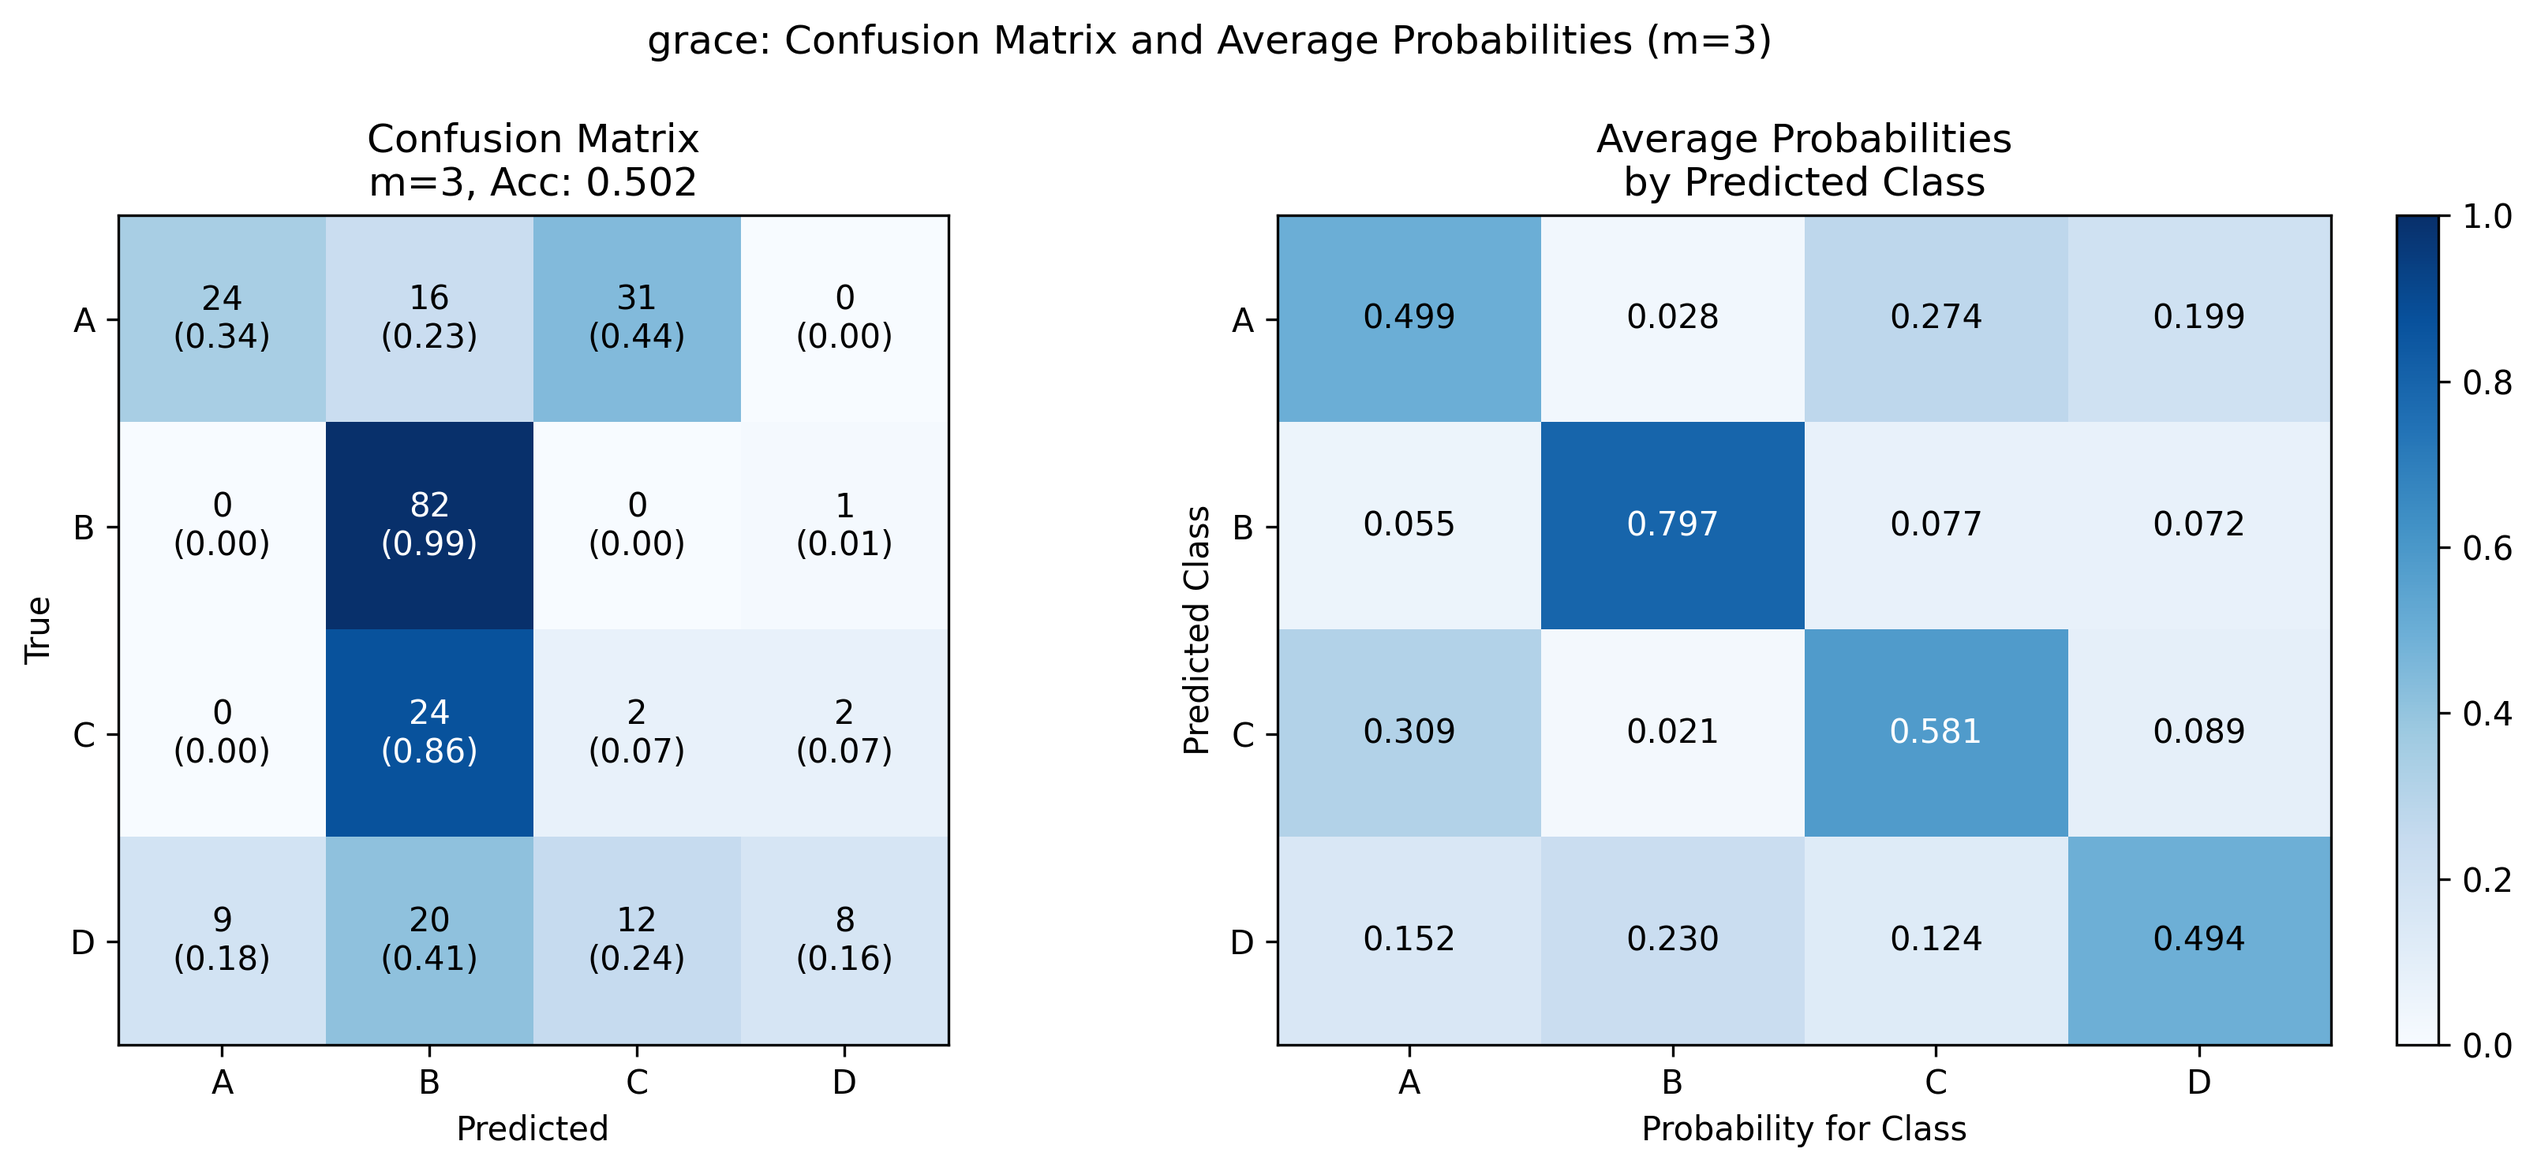
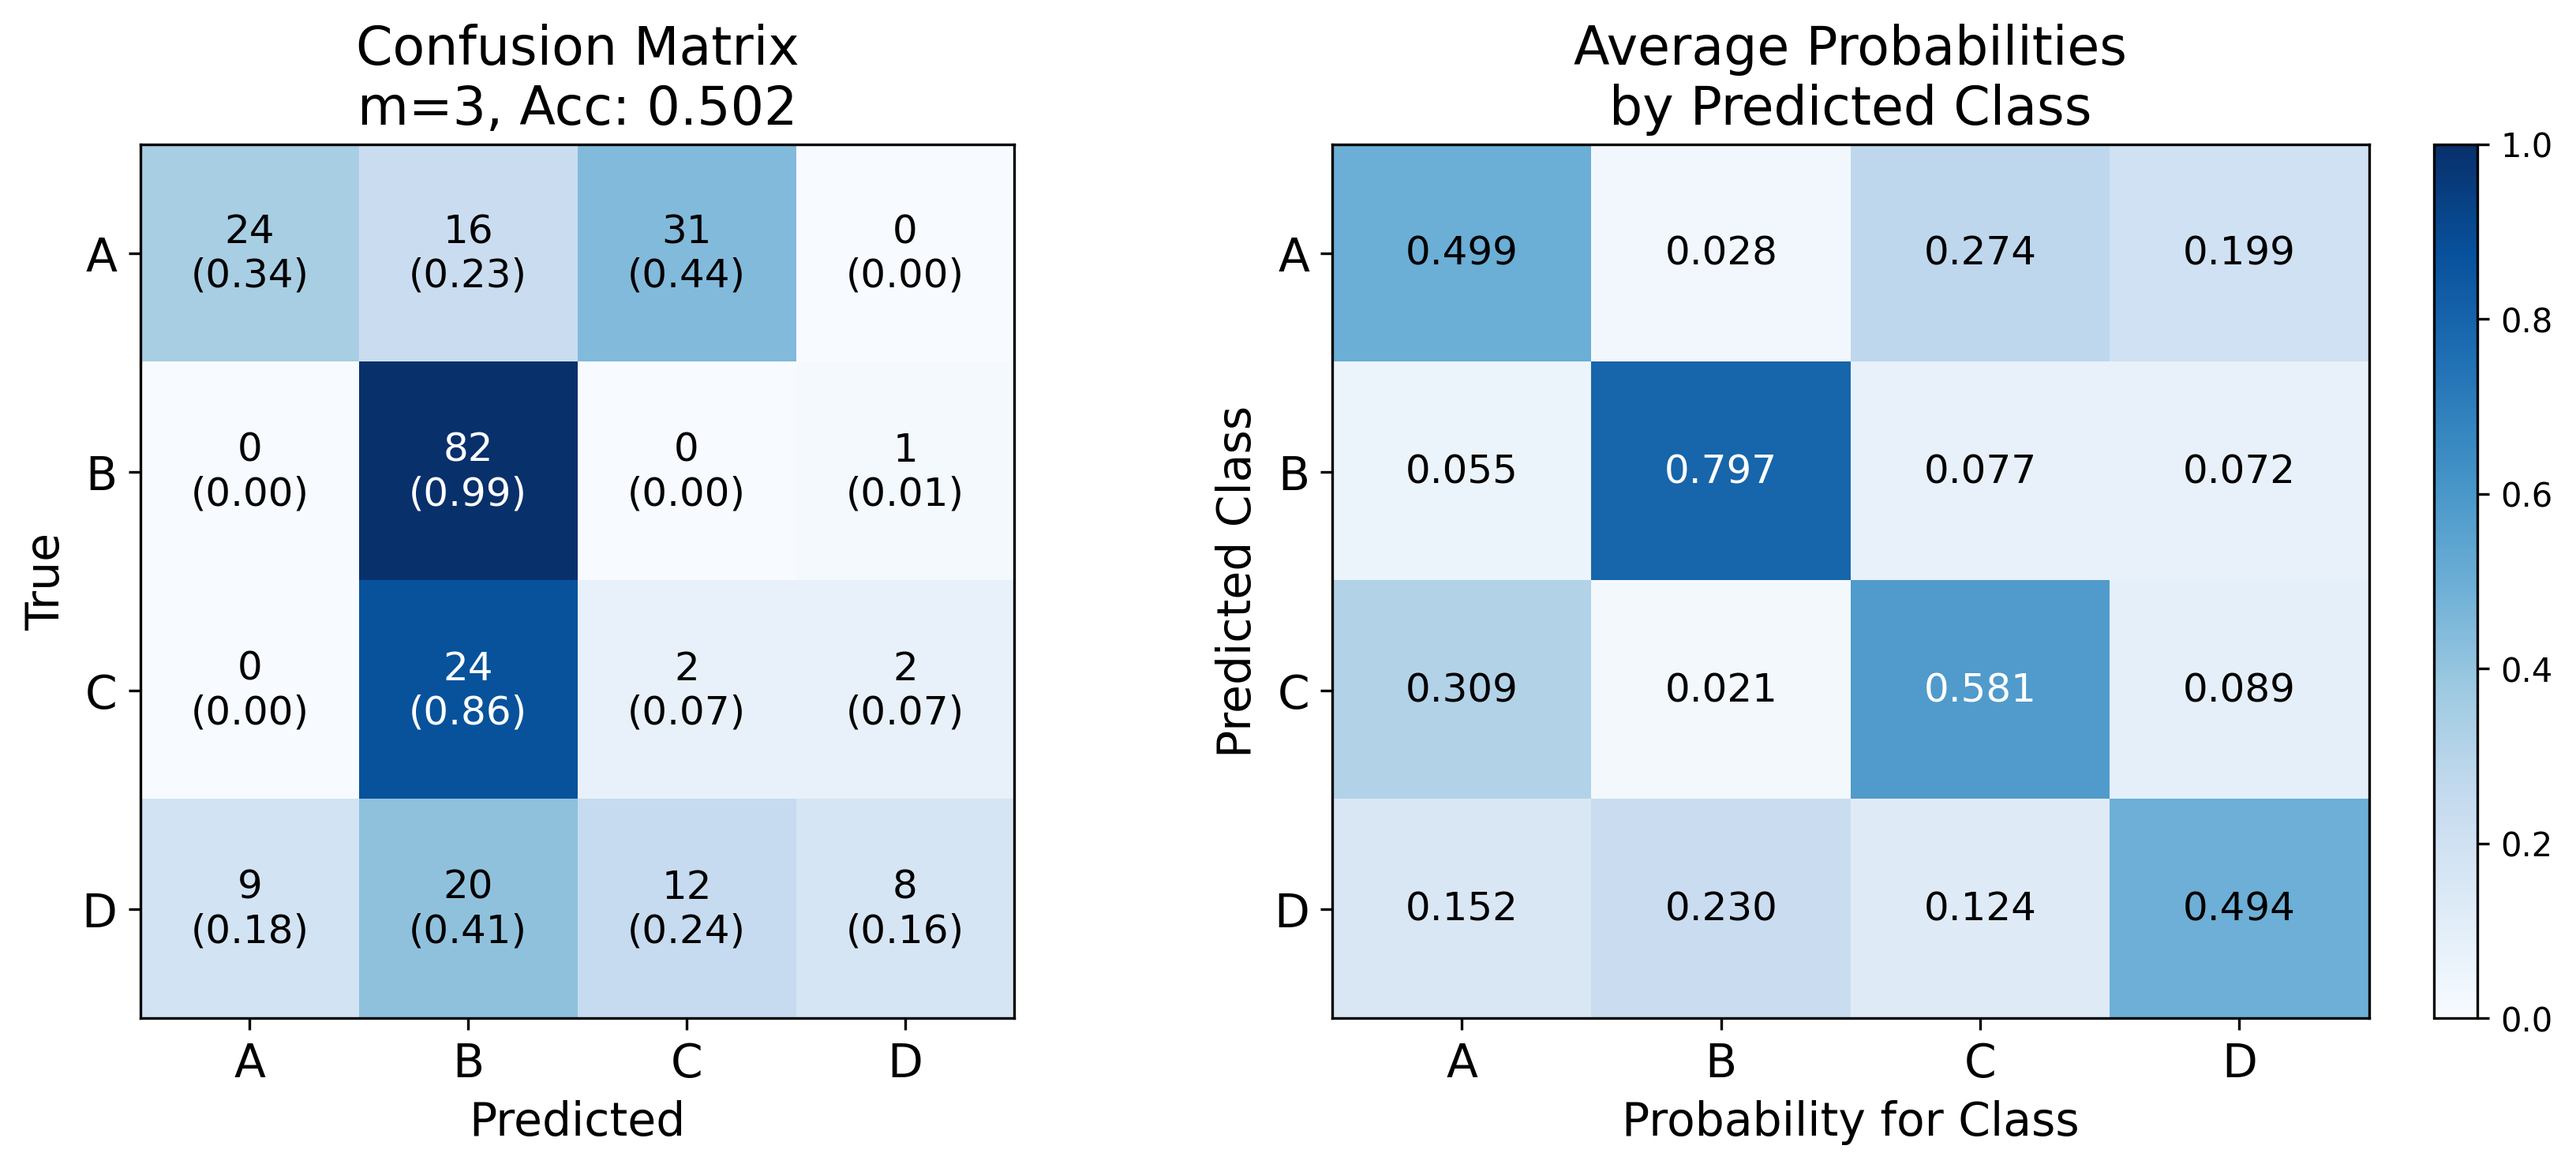
improve confusion matrix results:

diff --git a/confusion_matrix_analysis.py b/confusion_matrix_analysis.py
@@ -22,8 +22,8 @@ import matplotlib.pyplot as plt
 import random
 from sksurv.nonparametric import SurvivalFunctionEstimator 
 import seaborn as sns
-from sklearn.metrics import confusion_matrix
-os.makedirs("confusion_matrices", exist_ok=True)
+from sklearn.metrics import confusion_matrix, precision_recall_fscore_support
+os.makedirs("figures/figures/confusion_matrix_analysis", exist_ok=True)
 warnings.filterwarnings("ignore")
 
 SEED = 42
@@ -36,7 +36,7 @@ if torch.cuda.is_available():
     torch.backends.cudnn.benchmark = False
 
 # Directory containing the datasets
-data_dir = os.path.join("test")
+data_dir = os.path.join("test1")
 
 # List all CSV files in the directory
 dataset_files = [f for f in os.listdir(data_dir) if f.endswith(".csv")]
@@ -331,27 +331,31 @@ def create_confusion_matrix(tabpfn_model, x_test_imputed, y_test, cuts, dataset_
     cm = confusion_matrix(y_true, y_pred, labels=[0,1,2,3])
     cm_norm = cm.astype('float') / cm.sum(axis=1)[:, np.newaxis]
     
+    # Calculate precision and recall for each class
+    precision, recall, _, _ = precision_recall_fscore_support(y_true, y_pred, labels=[0,1,2,3], average=None, zero_division=0)
+    accuracy = np.mean(y_true == y_pred)
+    
     # Create figure with two equal-sized subplots
     fig, (ax_left, ax_right) = plt.subplots(1, 2, figsize=(12, 5))
     
     # Left subplot: Confusion matrix with both counts and percentages
     im1 = ax_left.imshow(cm_norm, interpolation='nearest', cmap='Blues')
-    ax_left.set_title(f'Confusion Matrix\nm={n_bins}, Acc: {np.mean(y_true == y_pred):.3f}')
+    ax_left.set_title(f'Confusion Matrix\nm={n_bins}, Acc: {accuracy:.3f}', fontsize=16)
     
     class_names = ["A", "B", "C", "D"]
     # Add text annotations to confusion matrix
     for i in range(cm.shape[0]):
         for j in range(cm.shape[1]):
             text = f"{cm[i,j]}\n({cm_norm[i,j]:.2f})"
-            ax_left.text(j, i, text, ha="center", va="center",
+            ax_left.text(j, i, text, ha="center", va="center", fontsize=12,
                         color="white" if cm_norm[i,j] > 0.5 else "black")
     
     ax_left.set_xticks(range(4))
     ax_left.set_yticks(range(4))
-    ax_left.set_xticklabels(class_names)
-    ax_left.set_yticklabels(class_names)
-    ax_left.set_xlabel('Predicted')
-    ax_left.set_ylabel('True')
+    ax_left.set_xticklabels(class_names, fontsize=14)
+    ax_left.set_yticklabels(class_names, fontsize=14)
+    ax_left.set_xlabel('Predicted', fontsize=14)
+    ax_left.set_ylabel('True', fontsize=14)
     
     # Right subplot: Average probabilities by predicted class
     avg_probs_by_pred = []
@@ -366,36 +370,36 @@ def create_confusion_matrix(tabpfn_model, x_test_imputed, y_test, cuts, dataset_
     avg_probs_by_pred = np.array(avg_probs_by_pred)
     
     im2 = ax_right.imshow(avg_probs_by_pred, cmap='Blues', aspect='auto', vmin=0, vmax=1)
-    ax_right.set_title('Average Probabilities\nby Predicted Class')
+    ax_right.set_title('Average Probabilities\nby Predicted Class', fontsize=16)
     
     # Add text annotations to probability matrix
     for i in range(4):
         for j in range(4):
             text = f"{avg_probs_by_pred[i,j]:.3f}"
-            ax_right.text(j, i, text, ha="center", va="center",
+            ax_right.text(j, i, text, ha="center", va="center", fontsize=12,
                          color="white" if avg_probs_by_pred[i,j] > 0.5 else "black")
     
     ax_right.set_xticks(range(4))
     ax_right.set_yticks(range(4))
-    ax_right.set_xticklabels(class_names)
-    ax_right.set_yticklabels(class_names)
-    ax_right.set_xlabel('Probability for Class')
-    ax_right.set_ylabel('Predicted Class')
+    ax_right.set_xticklabels(class_names, fontsize=14)
+    ax_right.set_yticklabels(class_names, fontsize=14)
+    ax_right.set_xlabel('Probability for Class', fontsize=14)
+    ax_right.set_ylabel('Predicted Class', fontsize=14)
     
     plt.colorbar(im2, ax=ax_right)
-    
-    plt.suptitle(f'{dataset_name}: Confusion Matrix and Average Probabilities (m={n_bins})')
     plt.tight_layout()
     
     # Save plot
-    plt.savefig(f'confusion_matrices/{dataset_name}_nbins_{n_bins}.png', bbox_inches='tight', dpi=300)
+    plt.savefig(f'figures/confusion_matrix_analysis/{dataset_name}_nbins_{n_bins}.png', bbox_inches='tight', dpi=300)
     plt.close()
     
     return {
         'confusion_matrix': cm,
         'normalized_confusion_matrix': cm_norm,
         'average_probabilities': avg_probs_by_pred,
-        'accuracy': np.mean(y_true == y_pred)
+        'accuracy': accuracy,
+        'precision': precision,
+        'recall': recall
     }
 
 
@@ -406,12 +410,90 @@ def plot_accuracy_vs_nbins(dataset_name, accuracies_dict):
     
     plt.figure(figsize=(10, 6))
     plt.plot(n_bins_values, accuracies, 'o-', linewidth=2, markersize=8, color='purple')
-    plt.xlabel('Number of Bins (m)', fontsize=14)
-    plt.ylabel('Classification Accuracy', fontsize=14)
-    plt.title(f'{dataset_name}: TabPFN Classification Accuracy vs m', fontsize=16)
+    plt.xlabel('Number of Grid Points (m)', fontsize=16)
+    plt.ylabel('Classification Accuracy', fontsize=16)
+    plt.title(f'{dataset_name}: TabPFN Classification Accuracy vs m', fontsize=18)
     plt.grid(True, alpha=0.3)
+    plt.xticks(fontsize=14)
+    plt.yticks(fontsize=14)
     plt.tight_layout()
-    plt.savefig(f'confusion_matrices/{dataset_name}_accuracy_vs_m.png', dpi=300, bbox_inches='tight')
+    plt.savefig(f'figures/confusion_matrix_analysis/{dataset_name}_accuracy_vs_m.png', dpi=300, bbox_inches='tight')
+    plt.close()
+
+
+def plot_precision_vs_nbins(dataset_name, precision_dict):
+    """Plot per-class precision vs number of bins."""
+    n_bins_values = sorted(precision_dict.keys())
+    class_names = ['A', 'B', 'C', 'D']
+    class_colors = ['skyblue', 'lightcoral', 'lightgreen', 'gold']
+    
+    plt.figure(figsize=(12, 6))
+    
+    for i, (class_name, color) in enumerate(zip(class_names, class_colors)):
+        precisions = [precision_dict[n][i] for n in n_bins_values]
+        plt.plot(n_bins_values, precisions, 'o-', linewidth=2, markersize=8, 
+                label=f'Class {class_name}', color=color)
+    
+    plt.xlabel('Number of Grid Points (m)', fontsize=16)
+    plt.ylabel('Precision', fontsize=16)
+    plt.title(f'{dataset_name}: TabPFN Per-Class Precision vs m', fontsize=18)
+    plt.grid(True, alpha=0.3)
+    plt.xticks(fontsize=14)
+    plt.yticks(fontsize=14)
+    plt.legend(fontsize=12)
+    plt.tight_layout()
+    plt.savefig(f'figures/confusion_matrix_analysis/{dataset_name}_precision_vs_m.png', dpi=300, bbox_inches='tight')
+    plt.close()
+
+
+def plot_recall_vs_nbins(dataset_name, recall_dict):
+    """Plot per-class recall vs number of bins."""
+    n_bins_values = sorted(recall_dict.keys())
+    class_names = ['A', 'B', 'C', 'D']
+    class_colors = ['skyblue', 'lightcoral', 'lightgreen', 'gold']
+    
+    plt.figure(figsize=(12, 6))
+    
+    for i, (class_name, color) in enumerate(zip(class_names, class_colors)):
+        recalls = [recall_dict[n][i] for n in n_bins_values]
+        plt.plot(n_bins_values, recalls, 'o-', linewidth=2, markersize=8, 
+                label=f'Class {class_name}', color=color)
+    
+    plt.xlabel('Number of Grid Points (m)', fontsize=16)
+    plt.ylabel('Recall', fontsize=16)
+    plt.title(f'{dataset_name}: TabPFN Per-Class Recall vs m', fontsize=18)
+    plt.grid(True, alpha=0.3)
+    plt.xticks(fontsize=14)
+    plt.yticks(fontsize=14)
+    plt.legend(fontsize=12)
+    plt.tight_layout()
+    plt.savefig(f'figures/confusion_matrix_analysis/{dataset_name}_recall_vs_m.png', dpi=300, bbox_inches='tight')
+    plt.close()
+
+
+def plot_macro_precision_recall_vs_nbins(dataset_name, precision_dict, recall_dict):
+    """Plot macro-averaged precision and recall vs number of bins."""
+    n_bins_values = sorted(precision_dict.keys())
+    
+    # Calculate macro averages
+    macro_precisions = [np.mean(precision_dict[n]) for n in n_bins_values]
+    macro_recalls = [np.mean(recall_dict[n]) for n in n_bins_values]
+    
+    plt.figure(figsize=(10, 6))
+    plt.plot(n_bins_values, macro_precisions, 'o-', linewidth=2, markersize=8, 
+             color='blue', label='Macro Precision')
+    plt.plot(n_bins_values, macro_recalls, 's-', linewidth=2, markersize=8, 
+             color='red', label='Macro Recall')
+    
+    plt.xlabel('Number of Grid Points (m)', fontsize=16)
+    plt.ylabel('Score', fontsize=16)
+    plt.title(f'{dataset_name}: TabPFN Macro Precision & Recall vs m', fontsize=18)
+    plt.grid(True, alpha=0.3)
+    plt.xticks(fontsize=14)
+    plt.yticks(fontsize=14)
+    plt.legend(fontsize=12)
+    plt.tight_layout()
+    plt.savefig(f'figures/confusion_matrix_analysis/{dataset_name}_macro_precision_recall_vs_m.png', dpi=300, bbox_inches='tight')
     plt.close()
 
 
@@ -440,16 +522,17 @@ def plot_class_distribution(dataset_name, class_distributions):
         values = [percentages[n][cls] for n in n_bins_values]
         plt.bar(x + i*width - width*1.5, values, width, label=f'Class {cls}', color=color)
     
-    plt.xlabel('Number of Bins (m)', fontsize=12)
-    plt.ylabel('Percentage (%)', fontsize=12)
-    plt.title(f'{dataset_name}: Training Set Class Distribution vs m', fontsize=14)
-    plt.xticks(x, n_bins_values)
+    plt.xlabel('Number of Bins (m)', fontsize=14)
+    plt.ylabel('Percentage (%)', fontsize=14)
+    plt.title(f'{dataset_name}: Training Set Class Distribution vs m', fontsize=16)
+    plt.xticks(x, n_bins_values, fontsize=12)
+    plt.yticks(fontsize=12)
     plt.grid(True, alpha=0.3, axis='y')
-    plt.legend()
+    plt.legend(fontsize=12)
     plt.tight_layout()
     
     # Save plot
-    plt.savefig(f'confusion_matrices/{dataset_name}_class_distribution.png', dpi=300, bbox_inches='tight')
+    plt.savefig(f'figures/figures/confusion_matrix_analysis/{dataset_name}_class_distribution.png', dpi=300, bbox_inches='tight')
     plt.close()
 
 for file_name in dataset_files:
@@ -521,6 +604,8 @@ for file_name in dataset_files:
         y_test_orig = y_test_filtered
 
         accuracies = {}
+        precisions = {}
+        recalls = {}
         class_distributions = {}
 
         for n_bins in bin_sizes:
@@ -577,8 +662,10 @@ for file_name in dataset_files:
                     cuts, dataset_name, n_bins
                 )
 
-                # Store accuracy
+                # Store accuracy, precision, and recall
                 accuracies[n_bins] = confusion_metrics['accuracy']
+                precisions[n_bins] = confusion_metrics['precision']
+                recalls[n_bins] = confusion_metrics['recall']
 
             except Exception as e:
                 print(f"Error with n_bins={n_bins}: {str(e)}")
@@ -586,6 +673,9 @@ for file_name in dataset_files:
 
         # Create accuracy plot after all n_bins are processed
         plot_accuracy_vs_nbins(dataset_name, accuracies)
+        plot_precision_vs_nbins(dataset_name, precisions)
+        plot_recall_vs_nbins(dataset_name, recalls)
+        plot_macro_precision_recall_vs_nbins(dataset_name, precisions, recalls)
         plot_class_distribution(dataset_name, class_distributions)
 
     except Exception as e:
